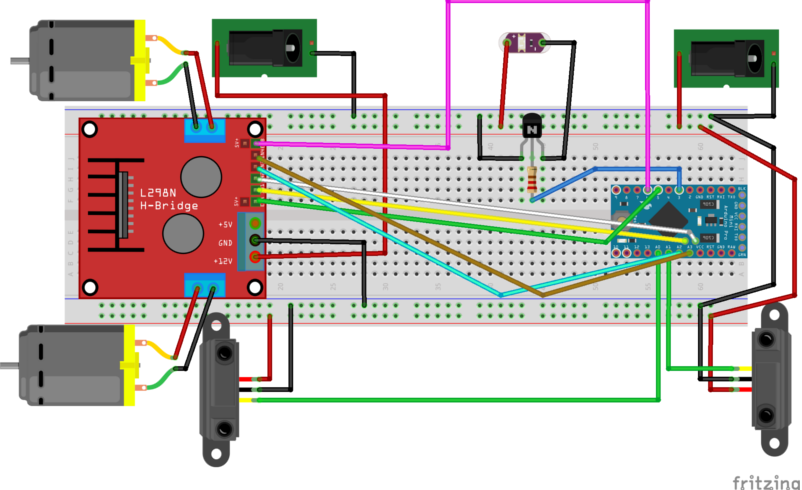
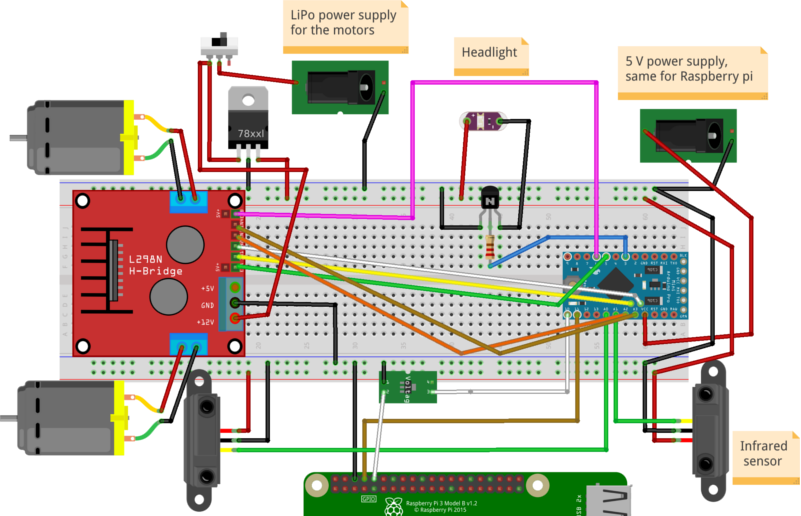
updated documentation according to tutorial on instructables, updated fritzing sketch

diff --git a/README.md b/README.md
@@ -14,6 +14,8 @@ and a object tracker but there can be more, i'll leave this to your imagination 
 
 **1. The first usecase is a surveillence robot that is controlled using an android interface:**
 
+Full tutorial on [instructables](https://www.instructables.com/id/Android-Controlled-Robot-Spy-Camera/)
+
 A video demo is available on [youtube](https://youtu.be/6FrEs4C9D-Y)
 
 The robot will stream the video using [UV4l](http://www.linux-projects.org/uv4l/)
@@ -26,9 +28,10 @@ The android application is located in this [repository](https://github.com/danio
 
 **How does it work**
 
-a. The android app shows the uv4l streamming inside a webview.
+a. The android app shows the uv4l streaming inside a webview. The uv4l process runs on the raspberry pi, captures video input from the camera and streams it. 
+It's an awesome tool with many features
 
-b. Using controlls inside the android app lights and engines commands are issued to the MQTT server
+b. Using controls inside the android app lights and engines commands are issued to the MQTT server
 
 c. The python server inside the docker container on the raspberry pi listens to MQTT commands and passes them
 using serial interface to the arduino board. The arduino board controlls the motors and the lights.
@@ -80,18 +83,20 @@ The folder location it's important because in docker-compose.yml the location is
 If you need to change the location, please change the value in docker-compose too
 
 
-*Uv4l configuration:*
+*Configuration:*
 
 * by editing uv4l/start.sh you can configure the following aspects of the video streaming: password,
 port, framerate, with, height, rotation and some other minor aspects
 * edit config.py and replace password with your own password that you've set on the mosquitto server
+* edit docker-container/mosquitto/Dockerfile and replace this line
+````
+RUN mosquitto_passwd -b /etc/mosquitto/pwfile user your_password
+````
+
+with your own user and password for mosquitto
+
 * optional you can change the baud rate (default 9600) and don't forget to edit that on the arduino-sketch too
 
-
-*Install docker and docker-compose*
-
-About docker installation: https://www.raspberrypi.org/blog/docker-comes-to-raspberry-pi/
-About docker-compose installation: https://www.berthon.eu/2017/getting-docker-compose-on-raspberry-pi-arm-the-easy-way/
 
 *Test uv4l installation*
 
@@ -99,12 +104,18 @@ a. Start it:
 ````
 sh ./uv4l/start.sh 
 ````
-b.test it in the browser
+b. Test it in the browser at the address: http://your_ip:9090/stream
 
 c. Stop it
 ````
 sudo pkill uv4l
 ````
+
+
+*Install docker and docker-compose*
+
+About docker installation: https://www.raspberrypi.org/blog/docker-comes-to-raspberry-pi/
+About docker-compose installation: https://www.berthon.eu/2017/getting-docker-compose-on-raspberry-pi-arm-the-easy-way/
 
 
 **Auto starting services on reboot/startup**
@@ -128,7 +139,7 @@ sudo systemctl status robot-camera-video.service
 
 
 **2. The second usecase is a object following robot**
-The robot will follow an object of a specific color (must be unique from background).
+The robot will follow an object of a specific color color and size threshold.
 
 A demo video is available on [youtube](https://youtu.be/z9qLmHRMCZY)
 
@@ -149,11 +160,12 @@ visual HSV object threshold detector.
 Object size threshold means the smallest and the highest object radius size 
 (in percents from width) which will be considered a detection.
 
-Running the object tracking script in vnc graphical interface in a terminal:
+Running the object tracking script in VNC graphical interface in a terminal:
+More information of how to install VNC [here](https://www.raspberrypi.org/documentation/remote-access/vnc/).
 
 ```` python3 object_tracking.py --show-video ````
 
-This will enable you to view the video, with a circle drawn over it. The cirle means 
+This will enable you to view the video, with a circle drawn over it. The circle means 
 that the object has been detected.
 
 Running the object tracking script with no video output:
@@ -173,22 +185,59 @@ Fritzing schematic:
 
 Checklist: 
 
-* A small robot car with two ac motors with gearboxes
+1. Plexiglass sheet
 
-* Arduino pro mini
+2. Plastic sheet ( you can also use a plexiglass sheet here )
 
-* Led light
+3. Glue
 
-* Small NPN tranzistor and 1 k rezistor
+4. Tyre + DC motor with gearbox + bracket (eBay) 13$
 
-* L298N Dual H-Bridge
+5. Small nuts and bolts
 
-* Two power supplies on for the motors one for the raspberry pi and arduino
+6. 2 x any directional wheel tyre
 
-* RaspberryPi 3
+7. Small LED flashlight (it will be transformed into a headlight)
 
-* Two analog infrared distance sensors 
+8. Arduino pro mini 328p (eBay) 2 $
 
+9. 2 x infrared obstacle sensor
+
+10. PCB
+
+11. NPN tranzistor (to drive the flashlight)
+
+12. L7805CV 5V regulator
+
+13. L298 H-bridge 
+
+14. Rezistor 220 Ohms
+
+15. Male usb connector
+
+16. Male micro usb connector
+
+17. Various wires
+
+18. 3 v regulator (for communication between arduino and raspberry pi)
+
+19. Male & female PCB connectors
+
+20. On / off switch
+
+21. XT-60 female LiPo connector (eBay) 1.2$
+
+22. 2S 1300 mAh LiPo battery with XT-60 connector
+
+23. 5v battery pack
+
+24. Raspberry Pi 3
+
+25. Raspberry Pi card
+
+26. Raspberry Pi case
+
+27. Raspberry Pi camera
 
 Pinout:
 
